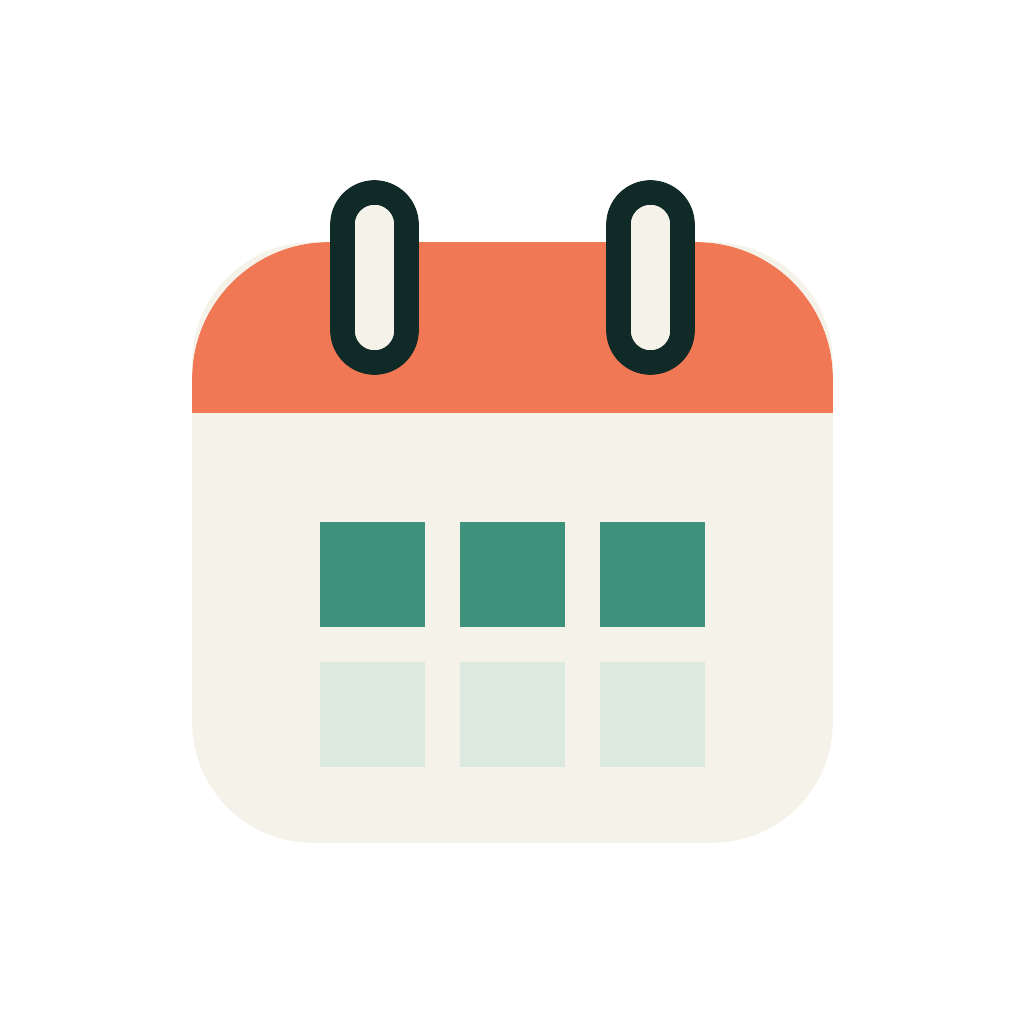
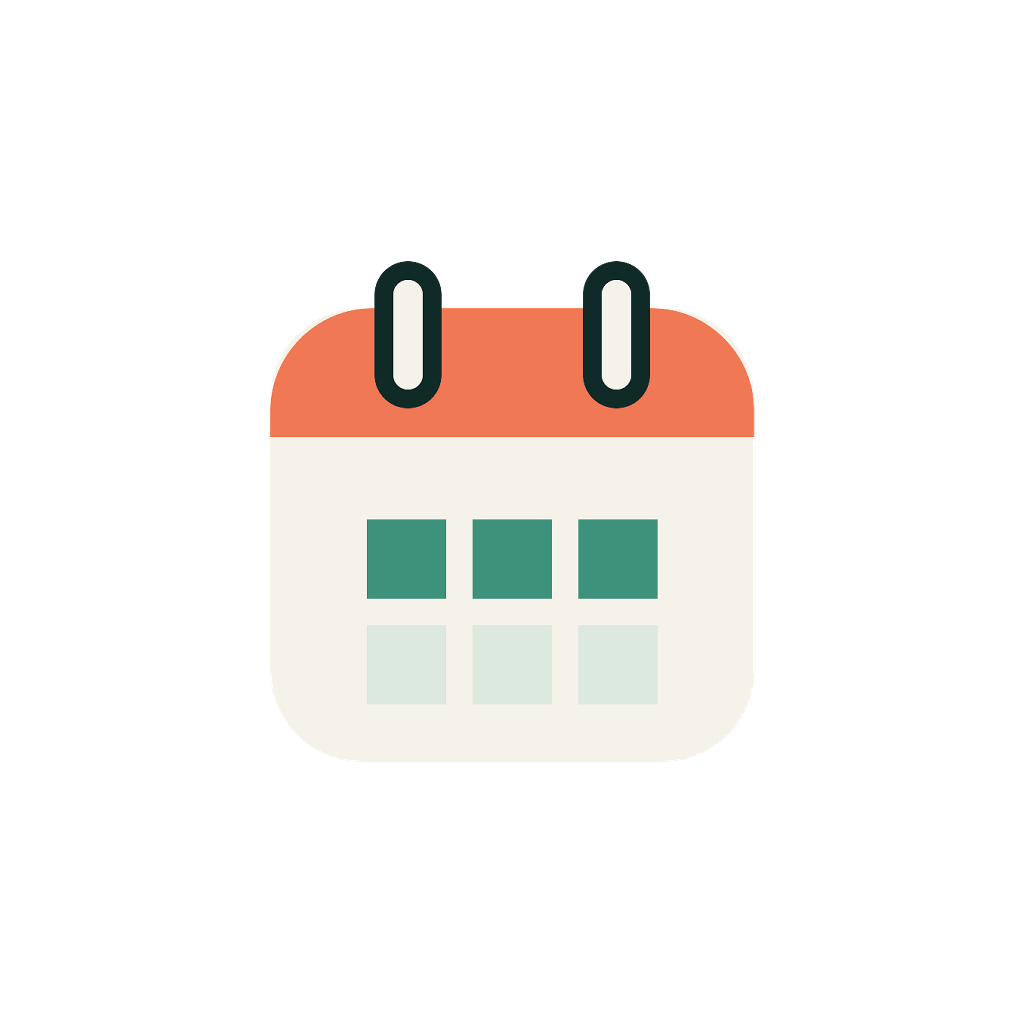
chore: rebrand app to Shiftwise
Updates app name, icons, and UI text for new branding.

Changed region(s): [[0.1875, 0.1562, 0.8125, 0.4375], [0.3125, 0.5, 0.6875, 0.75]]

diff --git a/components/roster/roster-backup-modal.tsx b/components/roster/roster-backup-modal.tsx
@@ -81,7 +81,7 @@ export function RosterBackupModal({
 
           <TextInput
             multiline
-            placeholder="REMINDER-AFK-ROSTER:v1 followed by JSON..."
+            placeholder="Paste the full roster backup text here..."
             placeholderTextColor="#9AA8A1"
             style={styles.input}
             textAlignVertical="top"

diff --git a/lib/roster-backup.ts b/lib/roster-backup.ts
@@ -170,7 +170,7 @@ export function importRosterBackupText(
   if (!backup) {
     return {
       ok: false,
-      message: 'Could not read backup. Paste the full copied block starting with REMINDER-AFK-ROSTER.',
+      message: 'Could not read backup. Paste the full copied roster backup text.',
     };
   }
 
